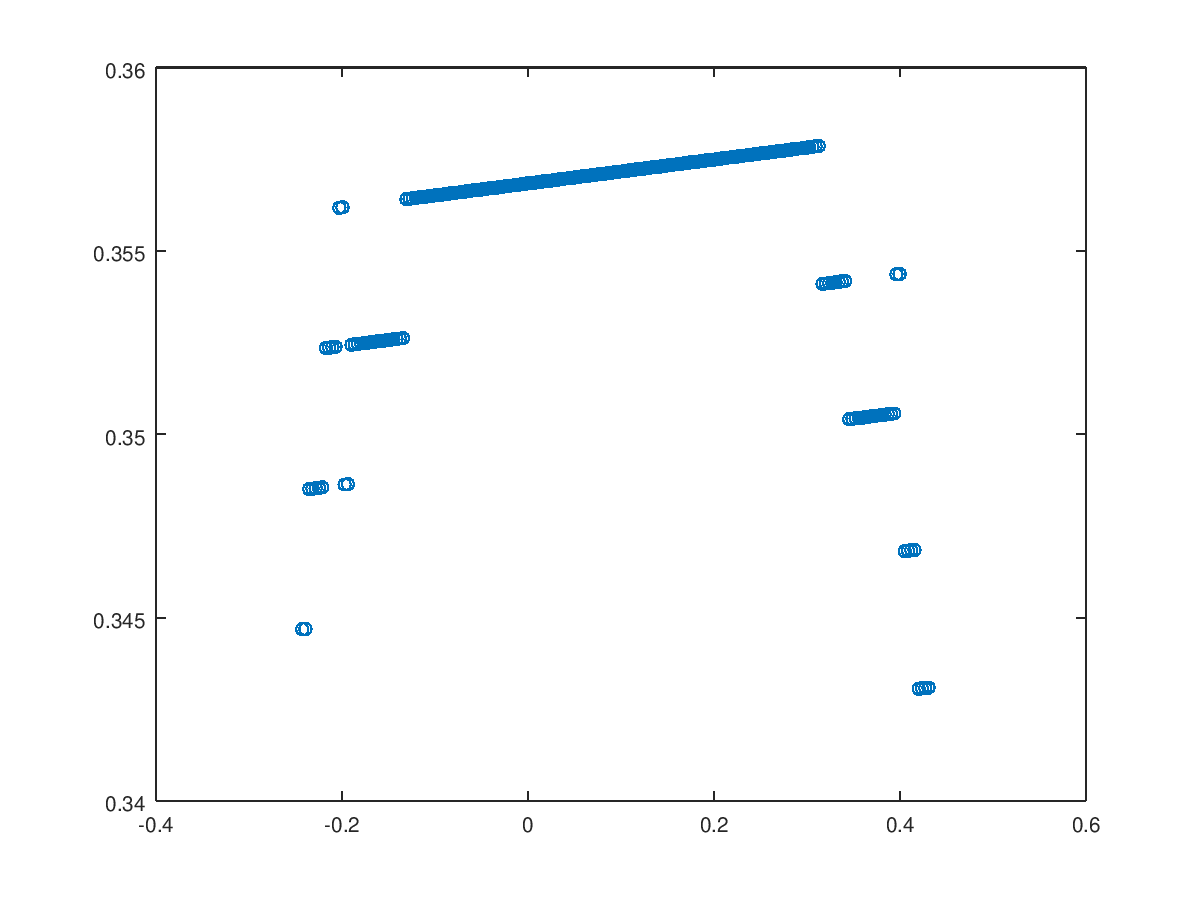
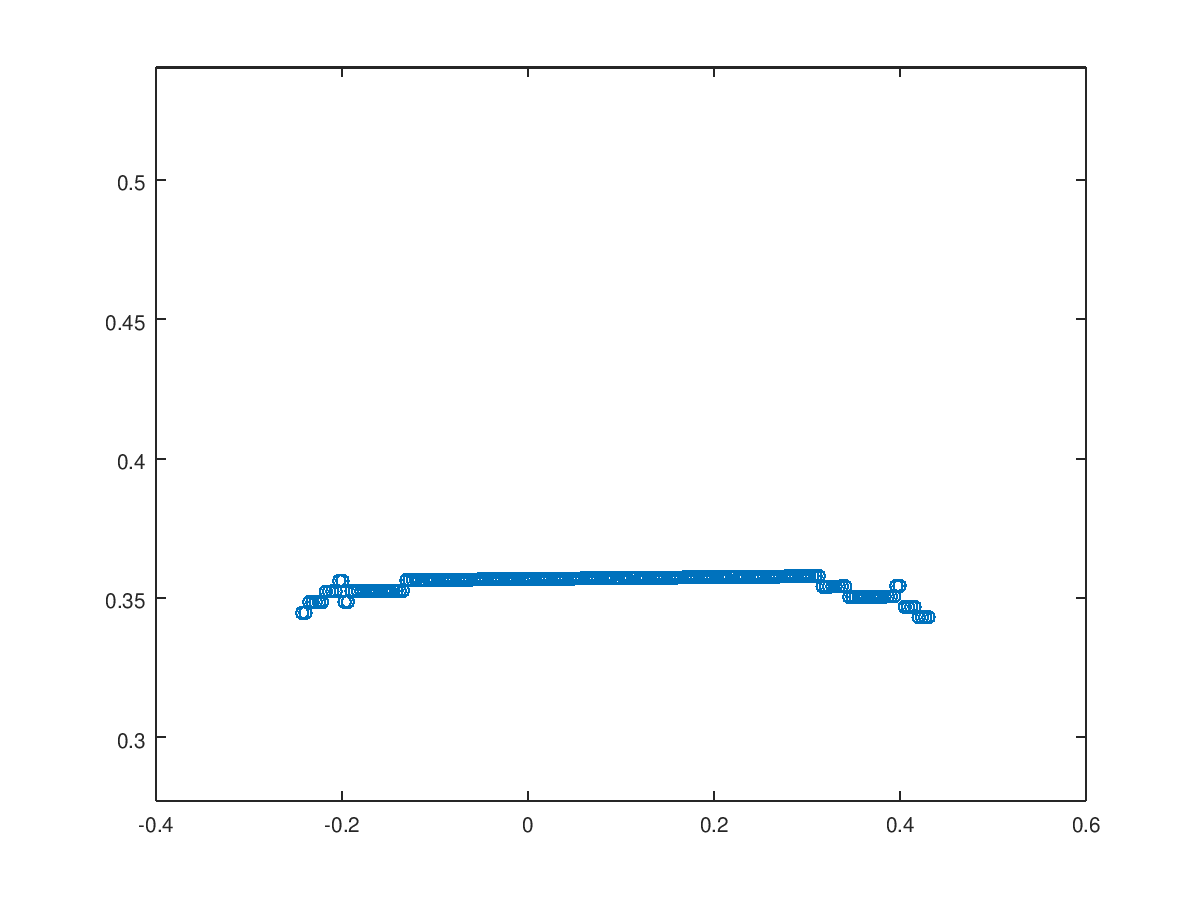
mejorando el codigo

diff --git a/passo3/lib-mcode2/juntar_arquivos_e_plot3d.m b/passo3/lib-mcode2/juntar_arquivos_e_plot3d.m
@@ -1,6 +1,19 @@
 function juntar_arquivos_e_plot3d(RESULTADO,INIT,ENDD)
 
     NN=128;
+    
+
+    for ID=INIT:ENDD
+      filedata=fullfile(RESULTADO,[ num2str(ID)  '.txt']);
+      DDD=load (filedata);
+      if ID==INIT
+         MAXZ=max(DDD(:,3));
+         MINZ=min(DDD(:,3));
+      else
+         MAXZ=max(max(DDD(:,3)),MAXZ);
+         MINZ=min(min(DDD(:,3)),MINZ);
+      end
+    endfor
 
     %%%%%%%%%%%%%%%%%%%%%%%%%%%%%%%%%%%%
     %% Juntar todos os dados em 'dat'
@@ -11,6 +24,7 @@ function juntar_arquivos_e_plot3d(RESULTADO,INIT,ENDD)
       disp(["Data loaded:" filedata ]);
 
       plot(DDD(:,1), DDD(:,3), "o") 
+      ylim ([MINZ MAXZ])
       %daspect ([1 1 1]);
       filedataname=fullfile(RESULTADO,[num2str(ID),'_3d.png']);
       print(filedataname,'-dpng')

diff --git a/passo3/lib-mcode2/pfun.m b/passo3/lib-mcode2/pfun.m
@@ -40,7 +40,7 @@ function [B Y C]=pfun(PARAMS,IMAGEPATH1,IMAGEPATH2,CUMULUSON,pasta,ID)
     [XLIN YLIN]=R.calculates_points();
 
     R = PointsDetector(IMG_BIN_REF);
-    R.set_reconstruction_cumulus_on(CUMULUSON);
+    %R.set_reconstruction_cumulus_on(CUMULUSON);
     %R.set_reconstruction_level(1);
     %R.set_reconstruction_parts(10);
     [XREF YREF PP]=R.calculates_line_ref_automatically(XLIN);
@@ -49,6 +49,12 @@ function [B Y C]=pfun(PARAMS,IMAGEPATH1,IMAGEPATH2,CUMULUSON,pasta,ID)
     d0=H/2-YREF;
     c0=YREF-YLIN;
     b0=XREF-0.5*W;
+
+    imagesc(IMG_BIN_REF);
+    hold on
+    plot(XREF,YREF,'-o');
+    hold off
+    print(fullfile(pasta,[num2str(ID),'_ref.png']),'-dpng')
 
     imagesc(IMG_BIN);
     hold on

diff --git a/passo3/lib-mcode2/sfun.m b/passo3/lib-mcode2/sfun.m
@@ -51,7 +51,7 @@ function [B Y C]=sfun(PARAMS,IMAGEPATH1,IMAGEPATH2,CUMULUSON,pasta,ID)
     c0=YREF-YLIN;
     b0=XREF-0.5*W;
 
-    imagesc(IMG_BIN);
+    imagesc(IMG_BIN_REF);
     hold on
     plot(XREF,YREF,'-o');
     hold off
